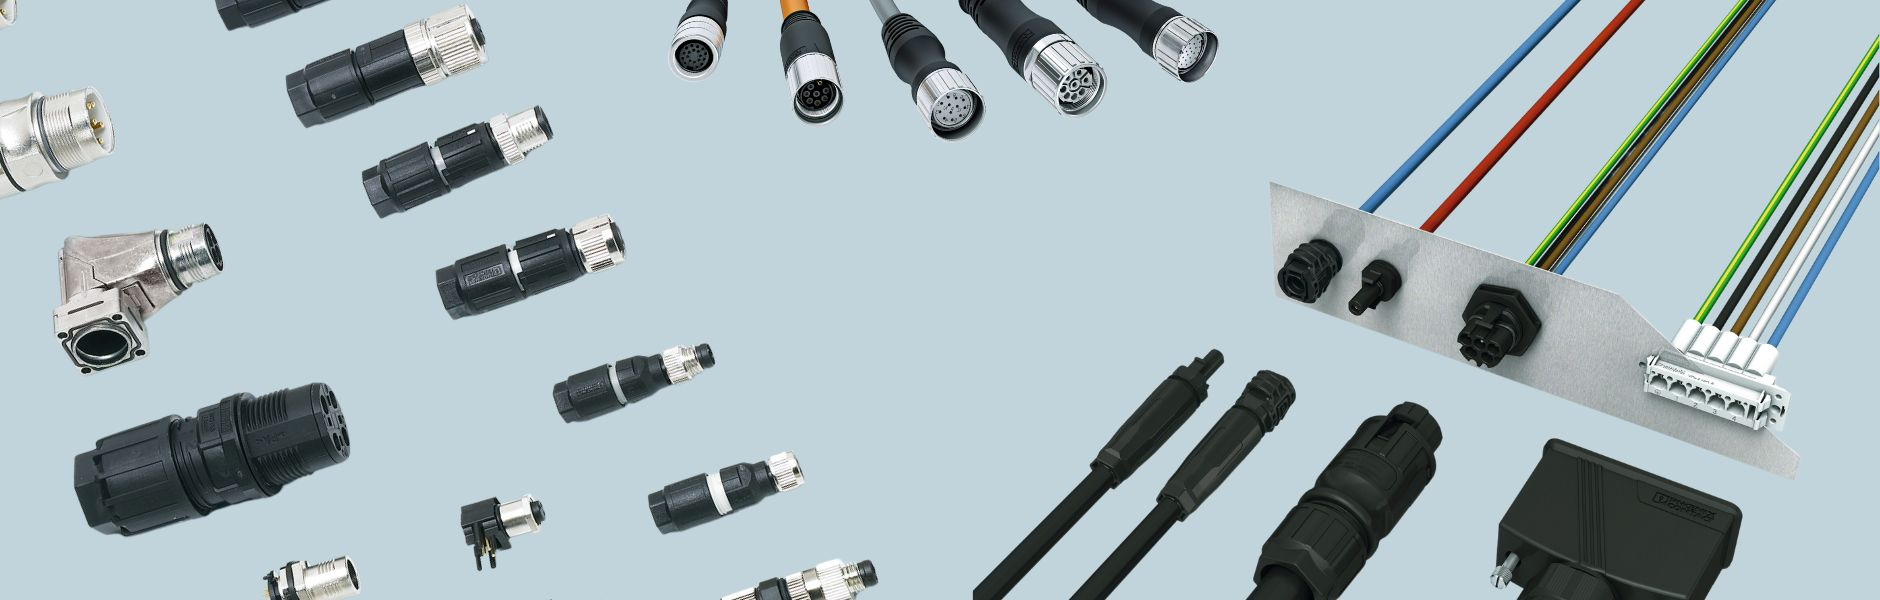
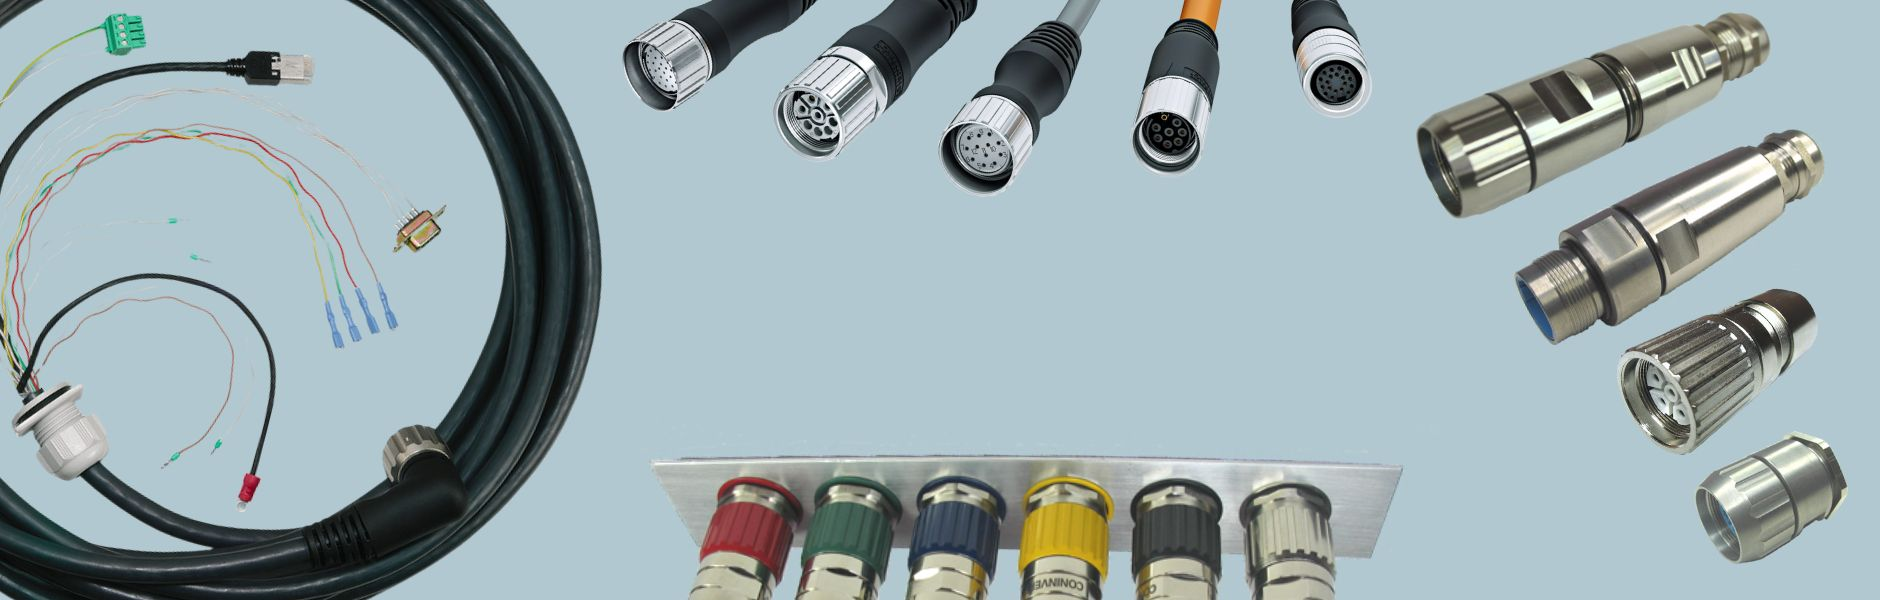
top hero change

diff --git a/src/lib/homepage/TopHero.svelte b/src/lib/homepage/TopHero.svelte
@@ -6,7 +6,7 @@
 
 </script>
 
-<div class="bg-[url('/images/top-hero-1.jpg')] h-[600px] flex justify-center items-center p-3 bg-cover">
+<div class="bg-[url('/images/top-hero-3.jpg')] h-[600px] flex justify-center items-center p-3 bg-cover">
     <div class="flex flex-col justify-center md:text-center p-5 bg-white bg-opacity-90 md:w-[800px]  md:h-[60%]">
         <div class="text-4xl font-bold md:text-5xl max-w-3xl m-auto mb-3">
             RDE Connectors & Cables, Inc.

diff --git a/src/routes/+page.svelte b/src/routes/+page.svelte
@@ -75,7 +75,7 @@
     </div>
 
   <div class="1/3">
-  <Img class="" size="md:w-[600px]" src="/images/m17-m58-m5-m12.png" alt=""/>
+  <Img class="" size="md:w-[600px]" src="/images/m17-m58.png" alt=""/>
   </div>
 </div>
 
